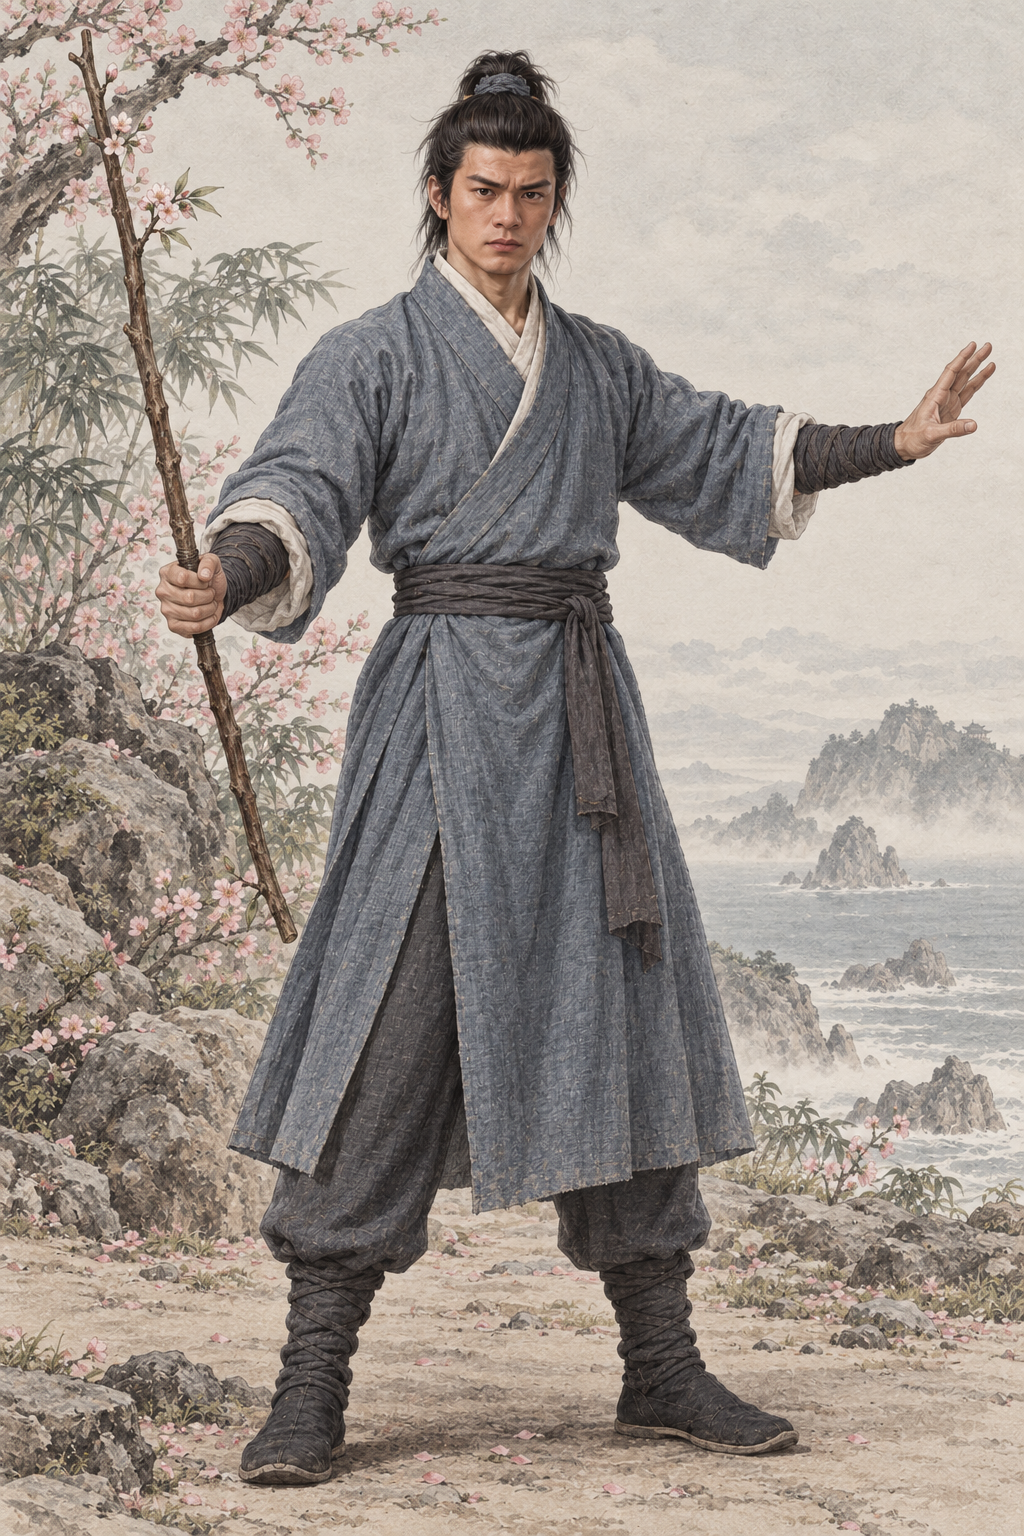
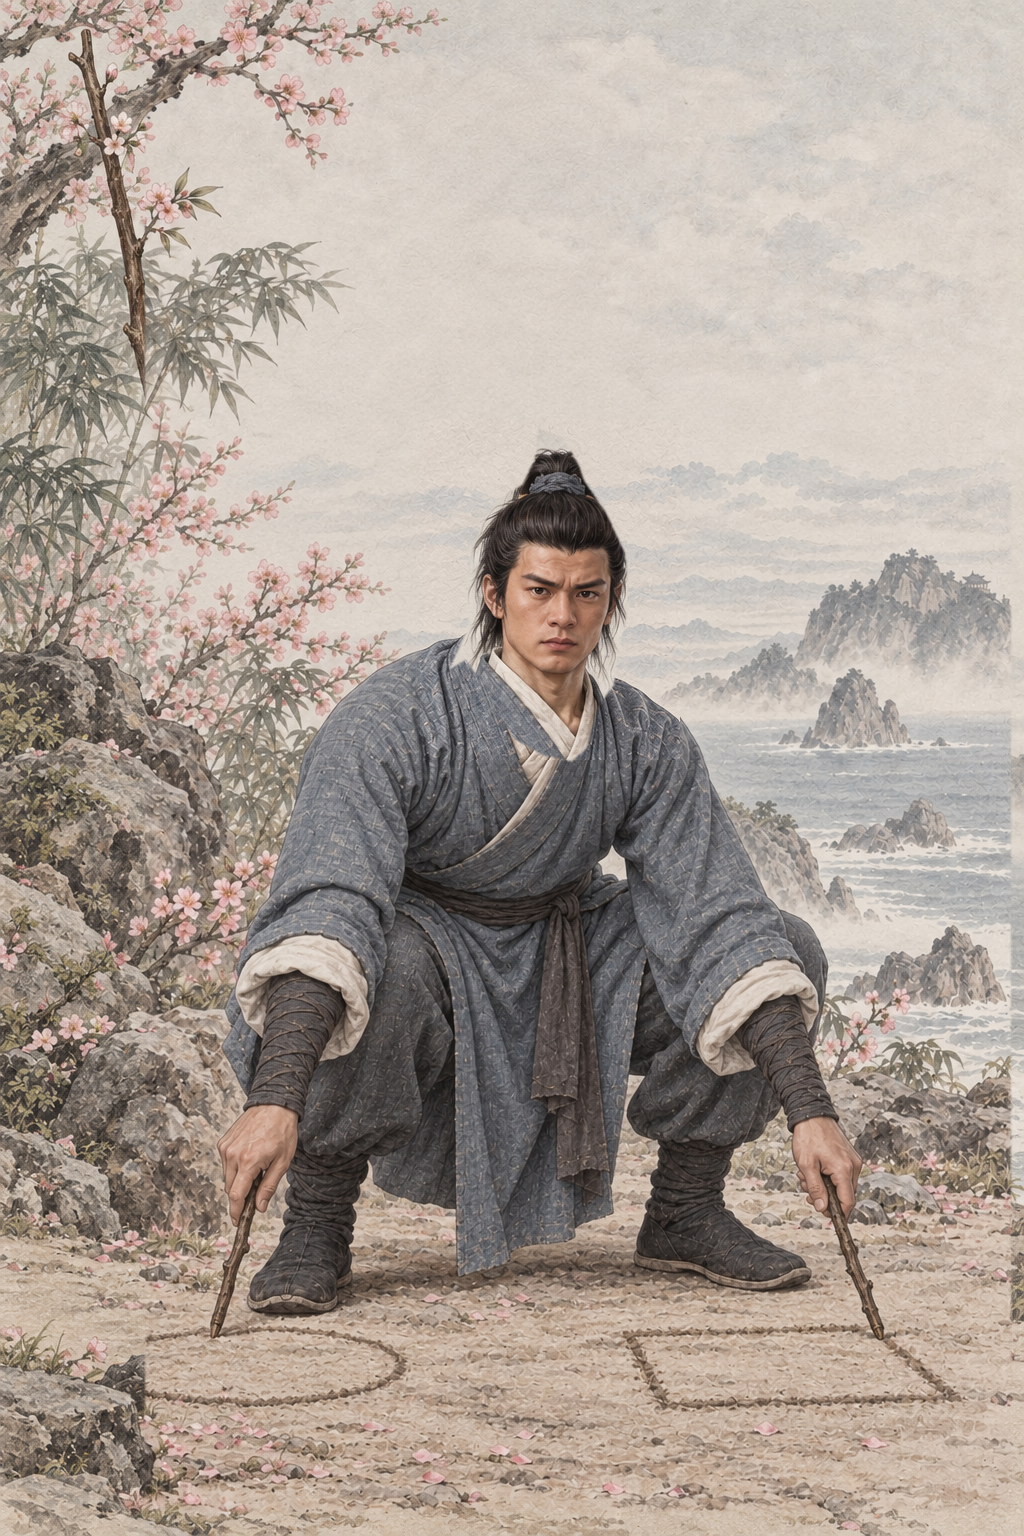
assets: AR-82 原著核对返修 郭靖双手各枝改左方右圆
原著摘句已同步提示词；已打开验图；蒙版外0像素变化。

Executed-By: Codex gpt-6.1-sol（AR-82）

diff --git a/assets/default/prompts/characters/ch02-shediao/npc_guojing__scene_peach_island_square_circle.md b/assets/default/prompts/characters/ch02-shediao/npc_guojing__scene_peach_island_square_circle.md
@@ -117,3 +117,8 @@ Create a premium REALISTIC Chinese wuxia character illustration with a delicate 
 - 采用作者授权宽松自查；偏差如实记录，candidate不代表approved。
 - 源PNG通常为1024×1536 RGB；其他原生2:3尺寸如实登记，原字节保存，不裁切、重编码、放大或去除溯源。
 - 完整请求、实际参考哈希及旧版本备份见 `.agents/coord/portrait-generation/realism-20261001/por_npc_guojing__ch02_youth_scene_peach_island_square_circle.prepared.json`。
+
+## 原著依据
+
+- 《射雕英雄传》第十七回 双手互搏：“左手画方，右手画圆”；https://www.xuges.com/wuxia/jinyong/sdyxz/123.htm
+- AR-82 返修约束（本节优先于历史提示词）：左手（画面右）与右手（画面左）各执一根短树枝，半蹲俯身，两枝枝尖同时触地；左手画方，右手画圆。不能仍为两臂平举对招，不留旧长杖、旧手或旧站立的头。完整原批准头部以原图像素平移合成，衣服款式与桃花岛背景保持。
